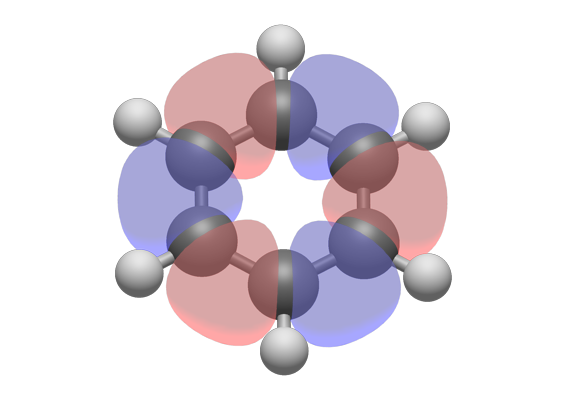
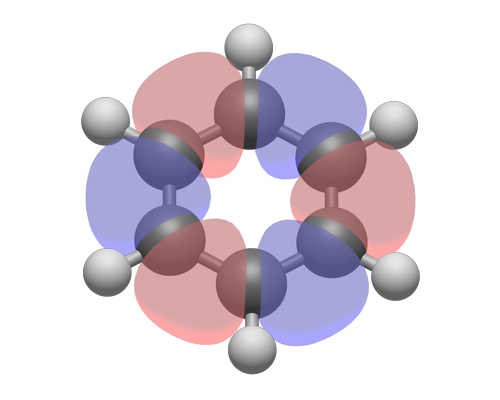
Tidy up main page including standardizing image size and fixing card header contrast in dark mode

diff --git a/source/index.md b/source/index.md
@@ -5,35 +5,52 @@ html_theme.show_prev_next: false
 ---
 
 (about)=
+# Avogadro
 
-Avogadro is an advanced molecule editor and visualizer designed for cross-platform use in computational chemistry, molecular modeling, bioinformatics, materials science, and related areas. It offers flexible high quality rendering and a powerful plugin architecture.
+Avogadro is a free and open source molecular editor and visualization tool.
 
-This documentation site is for Avogadro 2, currently in development.
+It is highly capable and designed for use in computational chemistry, molecular modeling, chemistry education, bioinformatics, materials science, and related areas.
+
+It offers flexible high-quality rendering, a modern UI with native styling, and a powerful plugin architecture.
+
+Avogadro is designed for cross-platform use and is fully supported on macOS, Windows, and Linux.
+
+This site is for the new Avogadro 2, currently in development.
 
 ::::{card-carousel} 3
+% Only use images with aspect ratio of 5:4 so that they all match!
 :::{card}
-![Thumbnail for benzene molecular orbital](/_static/benzene-mo.png)
+:img-background: /_static/benzene-mo.png
+:img-alt: Benzene with rendered molecular orbital
 :::
 :::{card}
-![Thumbnail for zeolite rendering](/_static/zeolite.png)
+:img-background: /_static/covid-spike.png
+:img-alt: COVID spike protein
 :::
 :::{card}
-![Thumbnail for COVID spike protein](/_static/covid-spike.png)
+:img-background: /_static/ferrocene.png
+:img-alt: Ferrocene
 :::
 :::{card}
-![Thumbnail for COVID spike protein](/_static/AuNP.png)
+:img-background: /_static/zeolite.png
+:img-alt: Zeolite rendering
 :::
 :::{card}
-![Thumbnail for bond-centric editing](/_static/bondcentric.png)
+:img-background: /_static/C180.png
+:img-alt: Symmetry analysis of C180
+
 :::
 :::{card}
-![Thumbnail for symmetry analysis of C180](/_static/C180.png)
+:img-background: /_static/bondcentric.png
+:img-alt: Bond-centric editing
 :::
 :::{card}
-![Thumbnail for ferrocene](/_static/ferrocene.png)
+:img-background: /_static/AuNP.png
+:img-alt: A gold nanoparticle
 :::
 :::{card}
-![Thumbnail for QTAim analysis](/_static/phenol-qtaim.png)
+:img-background: /_static/phenol-qtaim.png
+:img-alt: QTAim analysis
 :::
 ::::
 
@@ -42,8 +59,8 @@ This documentation site is for Avogadro 2, currently in development.
 ::::{grid} 3
 :::{grid-item-card}
 :text-align: center
-:class-header: sd-font-weight-bold sd-bg-light
-{fab}`apple;fa-2x` MacOS
+:class-header: sd-font-weight-bold sd-bg-light sd-text-dark
+{fab}`apple;fa-2x` macOS
 ^^^
 {{ '<a class="sd-sphinx-override sd-btn sd-text-wrap sd-btn-outline-primary reference external" href="' + macurl + '"><span>Download DMG</span></a>'}}
 ++++
@@ -52,7 +69,7 @@ This documentation site is for Avogadro 2, currently in development.
 
 :::{grid-item-card}
 :text-align: center
-:class-header: sd-font-weight-bold sd-bg-light
+:class-header: sd-font-weight-bold sd-bg-light sd-text-dark
 {fab}`windows;fa-2x` Windows
 ^^^
 {{ '<a class="sd-sphinx-override sd-btn sd-text-wrap sd-btn-outline-primary reference external" href="' + winurl + '"><span>Download Installer</span></a>'}}
@@ -62,7 +79,7 @@ This documentation site is for Avogadro 2, currently in development.
 
 :::{grid-item-card}
 :text-align: center
-:class-header: sd-font-weight-bold sd-bg-light
+:class-header: sd-font-weight-bold sd-bg-light sd-text-dark
 {fab}`linux;fa-2x` Linux
 ^^^
 {{ '<a class="sd-sphinx-override sd-btn sd-text-wrap sd-btn-outline-primary reference external" href="' + appurl + '"><span>Download AppImage</span></a>'}}
@@ -74,17 +91,17 @@ This documentation site is for Avogadro 2, currently in development.
 
 ## Features
 
-- Free, Open Source: Easy to install and all source code and documentation is available to modify or extend.
-- International: Translations into English, French, German, Hungarian, Indonesian, Japanese, Portuguese, Serbian, Turkish, and others, with [more languages to come](https://hosted.weblate.org/engage/avogadro/).
-- Intuitive: Built to work easily for students and advanced researchers both.
-- Fast: Supports multi-threaded rendering and computation.
-- Extensible: Plugin architecture for developers, including rendering, interactive tools, commands, and Python scripts.
+- **Free, Open Source**: Easy to install and all source code and documentation is available to modify or extend.
+- **International**: Translations into English, French, German, Hungarian, Indonesian, Japanese, Portuguese, Serbian, Turkish, and others, with [more languages to come](https://hosted.weblate.org/engage/avogadro/).
+- **Intuitive**: Built to work easily for students and advanced researchers both.
+- **Fast**: Supports multi-threaded rendering and computation.
+- **Extensible**: Plugin architecture for developers, including rendering, interactive tools, commands, and Python scripts.
 
 ## Resources
 
 ::::{grid} 3
 :::{grid-item-card}
-:class-header: sd-font-weight-bold sd-bg-light sd-text-center
+:class-header: sd-font-weight-bold sd-bg-light sd-text-center sd-text-dark
 {fas}`book;fa-2x` User Guide
 ^^^
 
@@ -96,7 +113,7 @@ Coming Soon for Avogadro 2:
 :::
 
 :::{grid-item-card}
-:class-header: sd-font-weight-bold sd-bg-light sd-text-center
+:class-header: sd-font-weight-bold sd-bg-light sd-text-center sd-text-dark
 {fas}`laptop-code;fa-2x` Develop
 ^^^
 
@@ -108,7 +125,7 @@ Develop scripts and C++ code with Avogadro:
 
 :::
 :::{grid-item-card}
-:class-header: sd-font-weight-bold sd-bg-light sd-text-center
+:class-header: sd-font-weight-bold sd-bg-light sd-text-center sd-text-dark
 {fas}`users;fa-2x` Contribute
 ^^^
 

diff --git a/source/docs/index.md b/source/docs/index.md
@@ -2,16 +2,33 @@
 
 # Guide
 
-Avogadro is a free, open-source molecular editor and visualization tool, designed for use on Mac, Windows, and Linux in computational chemistry, molecular modeling, chemistry education, bioinformatics, materials science, and related areas. It offers flexible high-quality rendering and a powerful plugin architecture.
+Avogadro is an advanced free and open source molecular editor and visualization tool.
+
+It is highly capable and designed for use in computational chemistry, molecular modeling, chemistry education, bioinformatics, materials science, and related areas.
+
+It offers flexible high-quality rendering, a modern UI with native styling, and a powerful plugin architecture.
+
+Avogadro is designed for cross-platform use and is fully supported on Windows, Linux, and macOS.
 
 ## Avogadro 2
 
-In particular, this manual covers the new release of Avogadro 2, a major update, and includes major changes, the revised interface, and new features. Most sections include notes on changes from v1.0, 1.1, and 1.2 to the new 2.0 release.
+In particular, this manual covers the new release of Avogadro 2, a major update, and includes major changes, the revised interface, and new features.
+Most sections include notes on changes from v1.0, 1.1, and 1.2 to the new 2.0 release, though as there have been so many, coverage is not in any way comprehensive.
 
-For new features, a "**New in 2.0**" heading is included.
+Versions 1.90 to 1.99 were beta releases of Avogadro 2 and a lot of this manual applied to those versions too, but note that during the beta phase there were also many improvements made to the UI which have changed the location or appearance of various things.
 
-The revised manual also includes tips and warnings as call-out sections:
+Look out for boxes highlighting new features or changes for Avogadro 2:
 
+:::{versionadded} 2.0
+:::
+
+:::{versionchanged} 2.0
+This feature now behaves differently.
+:::
+
+The revised manual also includes annotations:
+
+<<<<<<< HEAD
 ```{warning}
 This is a warning – pay attention to something that may cause problems
 ```
@@ -19,6 +36,19 @@ This is a warning – pay attention to something that may cause problems
 ```{tip}
 This is a tip – something that can help you work better
 ```
+=======
+:::{warning}
+This is a warning -- something that may cause problems.
+:::
+
+:::{tip}
+This is a tip -- something that can help you work better.
+:::
+
+:::{note}
+This is a note -- further relevant information.
+:::
+>>>>>>> 02947ff (Tidy up main page including standardizing image size and fixing card header contrast in dark mode)
 
 ## Thanks
 
@@ -27,7 +57,7 @@ This book would not be possible without the help and effort of many people, incl
 Initial funding for the Avogadro manual was provided by the [University of Pittsburgh Department of Chemistry](http://www.chem.pitt.edu/).
 
 * Version 1 - Summer 2015 - Taylor Cornell and Geoffrey Hutchison
-* Version 2 - 2022-204 - Geoffrey Hutchison
+* Version 2 - 2022-2024 - Geoffrey Hutchison and Matt Milner
 
 ```{toctree}
 ---
